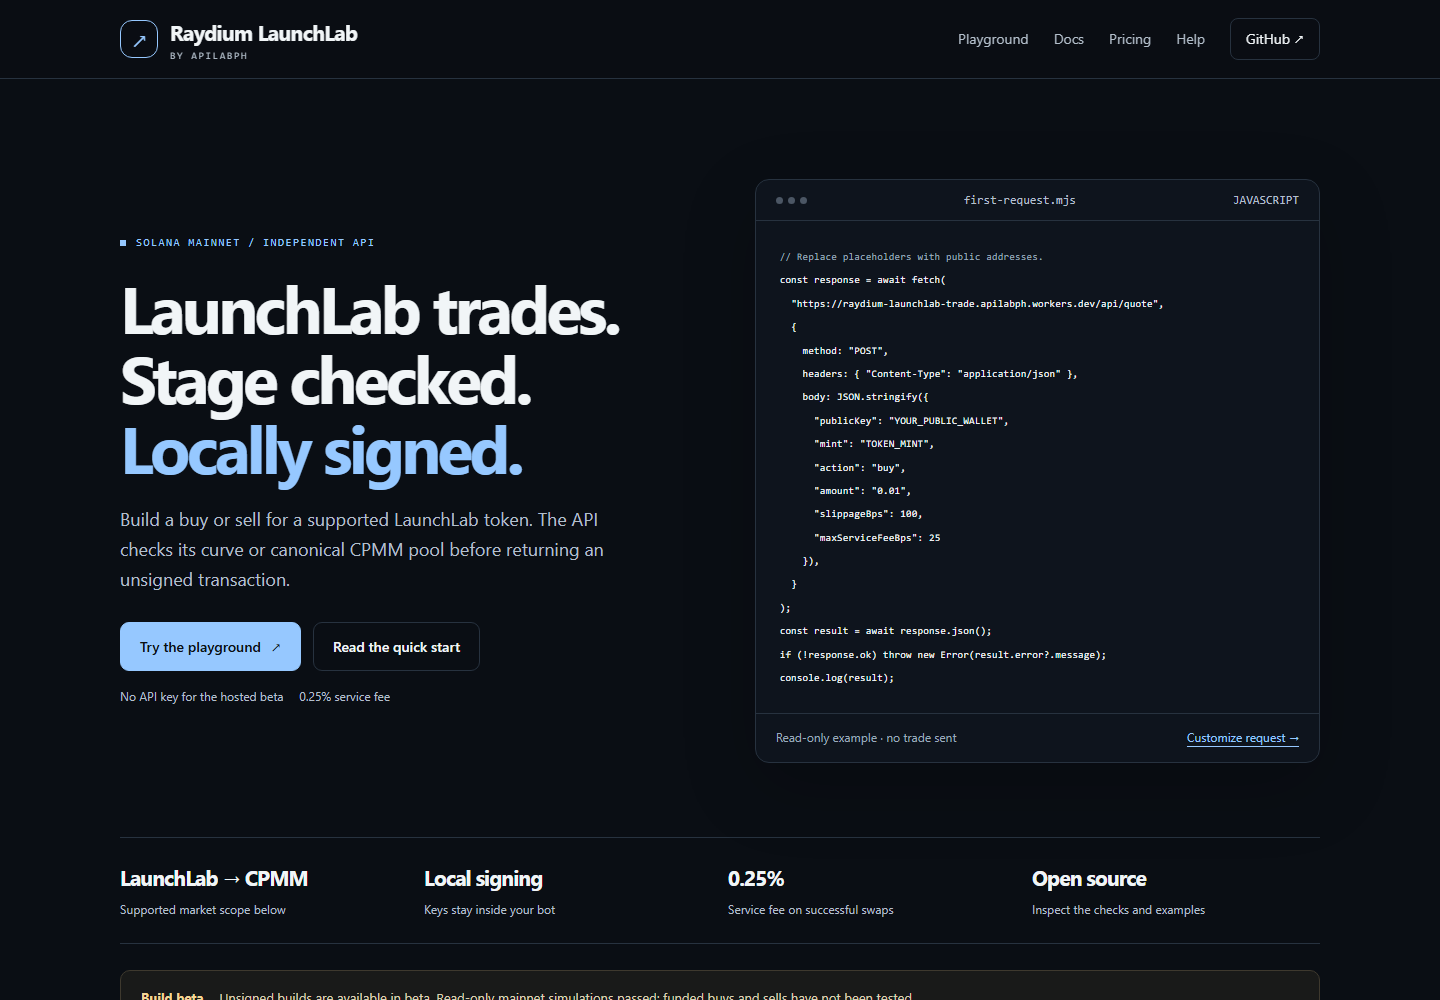
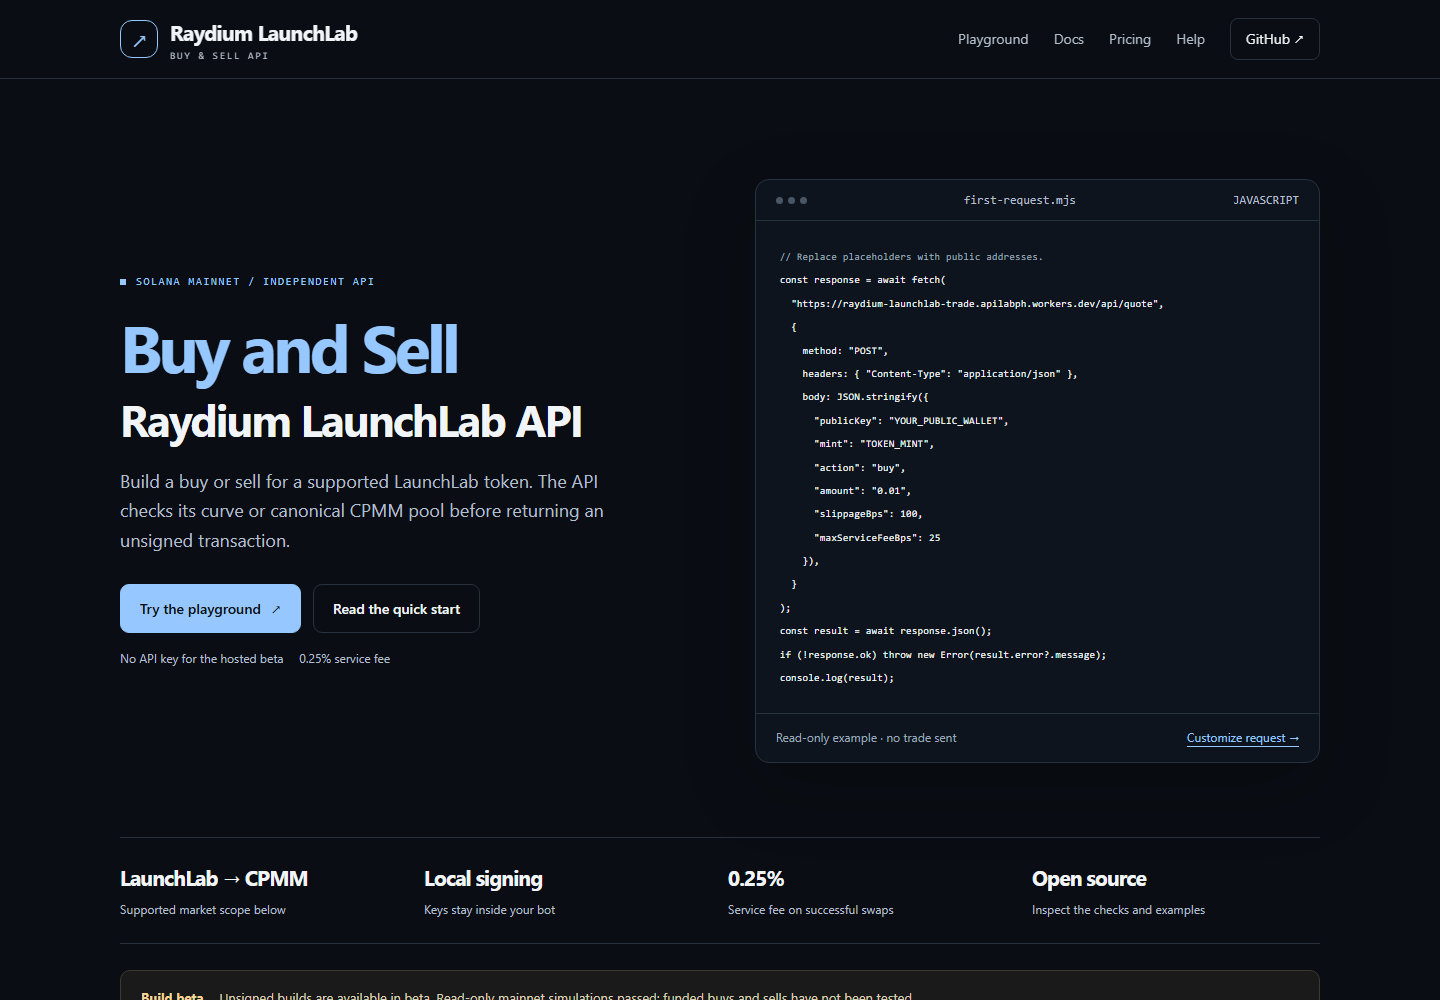
Emphasize buy and sell in website headings

diff --git a/website/index.html b/website/index.html
@@ -33,7 +33,7 @@
       <div class="wrap nav">
         <a class="brand" href="#main"
           ><span class="mark" aria-hidden="true">↗</span
-          ><span>Raydium LaunchLab<small>BY APILABPH</small></span></a
+          ><span>Raydium LaunchLab<small>BUY &amp; SELL API</small></span></a
         >
         <nav class="navlinks" aria-label="Main navigation">
           <a href="#playground">Playground</a><a href="#guides">Docs</a
@@ -53,9 +53,8 @@
             <span class="dot"></span>Solana mainnet / Independent API
           </div>
           <h1 id="hero-title">
-            LaunchLab trades.<br />Stage checked.<br /><span
-              >Locally signed.</span
-            >
+            <span class="hero-action">Buy and Sell</span>
+            <span class="hero-product">Raydium LaunchLab API</span>
           </h1>
           <p class="lead">
             Build a buy or sell for a supported LaunchLab token. The API checks

diff --git a/website/style.css b/website/style.css
@@ -170,8 +170,17 @@ button:disabled {
   letter-spacing: -0.055em;
   margin: 22px 0;
 }
-.hero h1 span {
+.hero-action {
+  display: block;
   color: var(--accent);
+}
+.hero-product {
+  display: block;
+  margin-top: 12px;
+  color: var(--text);
+  font-size: clamp(28px, 3.1vw, 44px);
+  line-height: 1.15;
+  letter-spacing: -0.04em;
 }
 .lead {
   font-size: 18px;

diff --git a/website/README.md b/website/README.md
@@ -18,6 +18,7 @@ The playground uses a small local proxy because the production Solana APIs do no
 
 ## What visitors get
 
+- A prominent Buy and Sell headline, the API name directly below, and a matching header label on desktop and mobile.
 - A product-specific landing page, mobile layout and independent-integration identity.
 - Guided requests with JavaScript, Python and POSIX-shell cURL examples.
 - Correct amount-unit explanations, a fee ceiling and operation-specific requirements.
